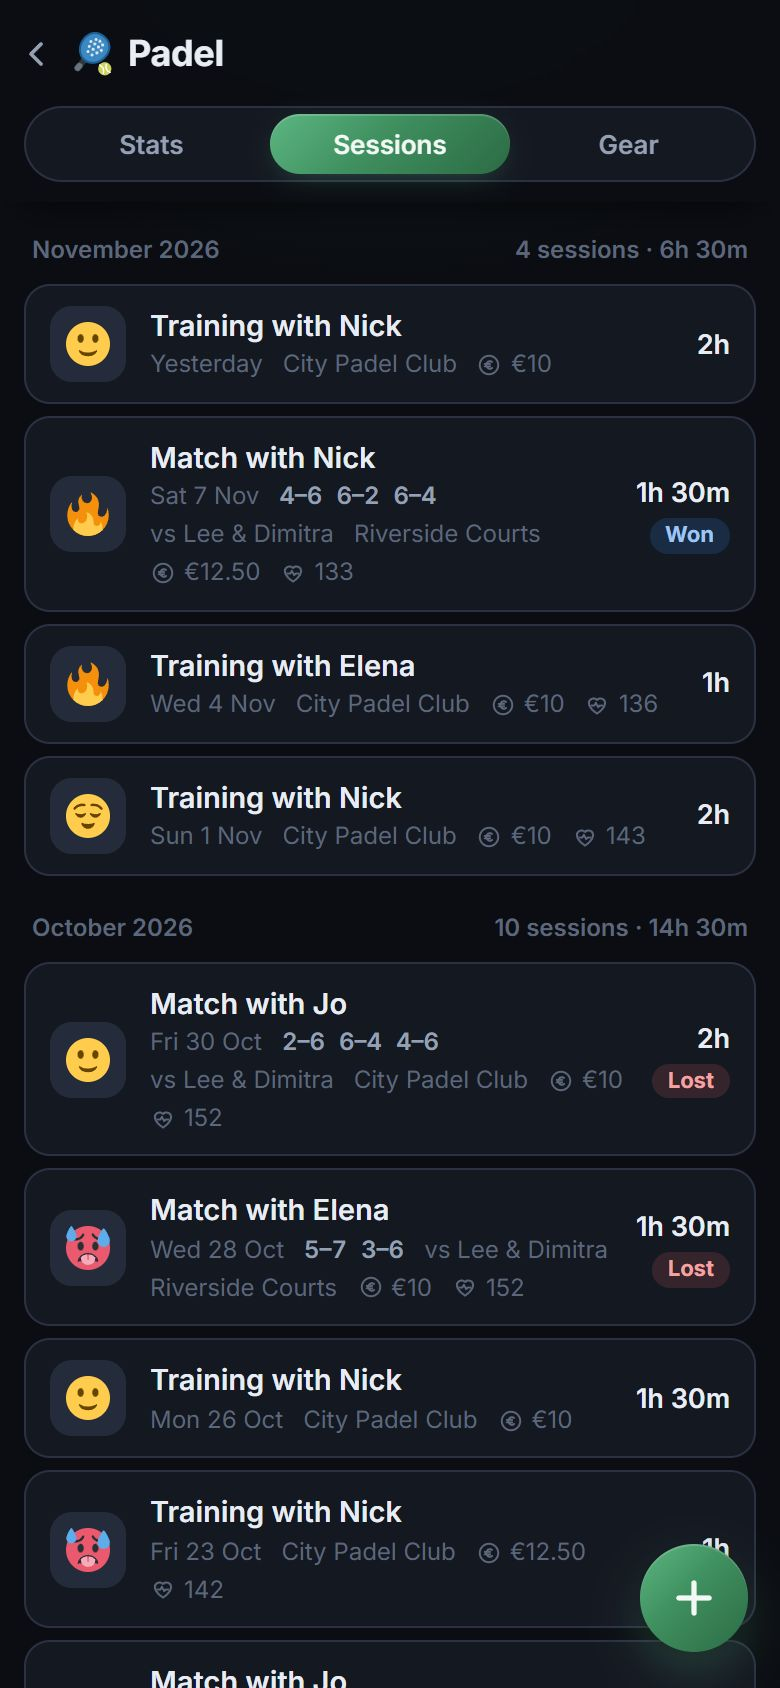
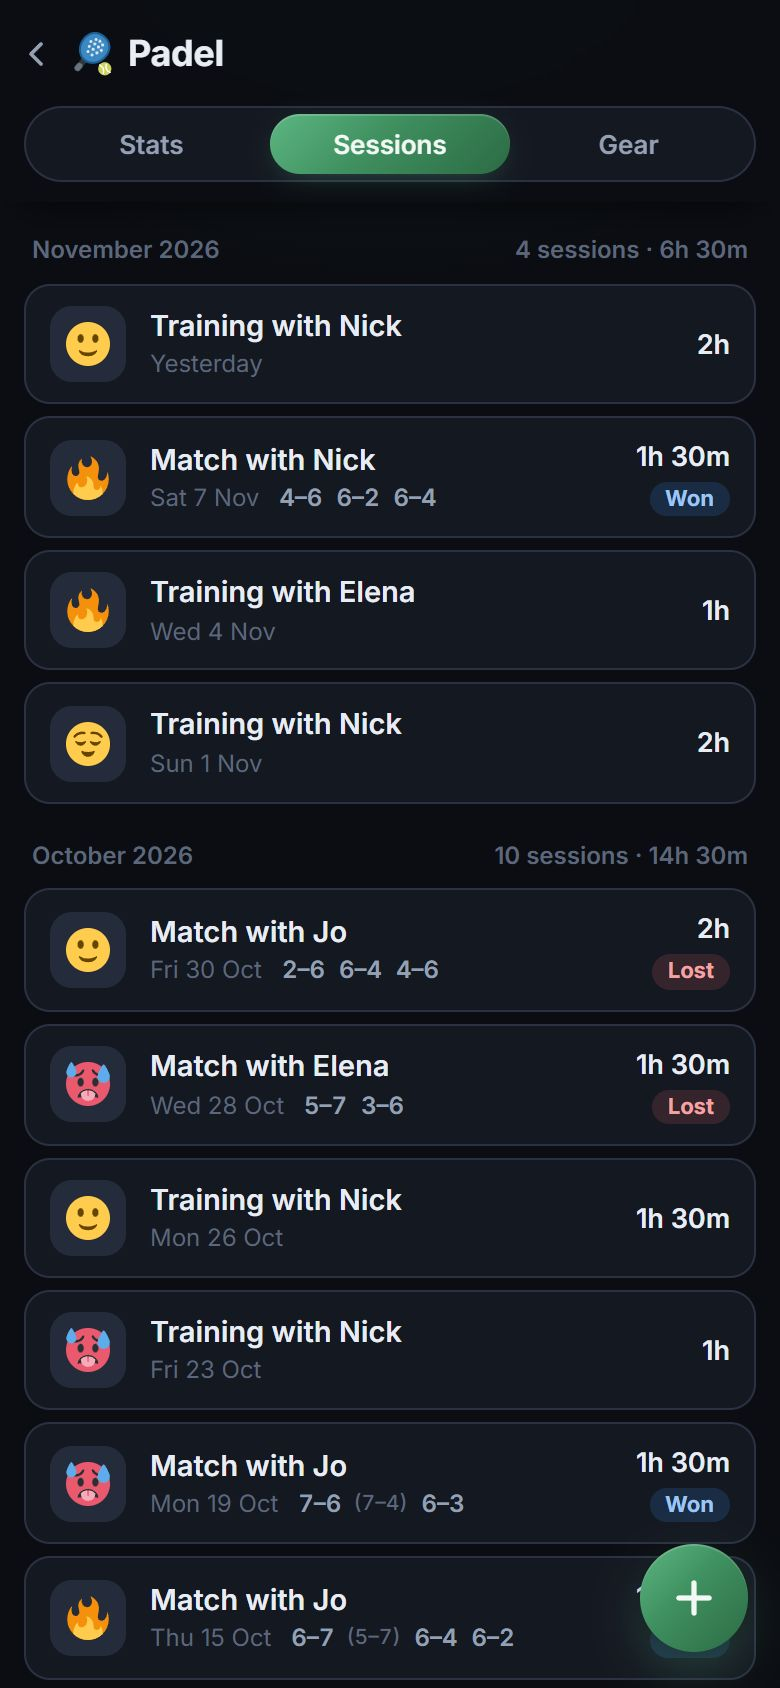
Improvements

diff --git a/workout-tracker/public/js/workouts/session-list.js b/workout-tracker/public/js/workouts/session-list.js
@@ -1,13 +1,10 @@
 // Sessions tab: sessions by month, newest first.
 import { $, escapeHtml } from '../shared/dom.js';
-import { dayLabel, duration, money, plural } from '../shared/format.js';
-import {
-  fieldShows, opponentsOf, parseScore, partnerField, resultField, scoreField, tracks,
-} from '../shared/sports.js';
+import { dayLabel, duration, plural } from '../shared/format.js';
+import { fieldShows, parseScore, partnerField, resultField, scoreField, tracks } from '../shared/sports.js';
 import { byNewest } from '../shared/stats.js';
 import { feelOf } from '../shared/workouts.js';
 import { emoji, sportIcon } from '../ui/emoji.js';
-import { icon } from '../ui/icons.js';
 import { groupByMonth } from './rows.js';
 
 /** @typedef {import('../shared/workouts.js').Session} Session */
@@ -39,18 +36,15 @@ function rowIcon(sport, s) {
   return `<span class="row-emoji">${option?.emoji ? emoji(option.emoji, option.label) : sportIcon(sport)}</span>`;
 }
 
-function sessionRow(sport, s, today, currency) {
+/** Kept short: the day and the score; the rest is a tap away. */
+function sessionRow(sport, s, today) {
   const result = resultField(sport);
   const score = scoreField(sport);
-  const opponents = opponentsOf(sport, s.details);
   const meta = [`<span>${escapeHtml(dayLabel(s.date, today))}</span>`];
   const sets = score ? parseScore(s.details[score.key], score.maxSets) : null;
   if (sets) meta.push(`<span class="score">${sets.map(([a, b, ta, tb]) => `<span>${a}–${b}${ta != null ? `<small>(${ta}–${tb})</small>` : ''}</span>`).join('')}</span>`);
-  if (opponents.length) meta.push(`<span>vs ${escapeHtml(opponents.join(' & '))}</span>`);
-  if (s.details.venue) meta.push(`<span>${escapeHtml(String(s.details.venue))}</span>`);
-  if (s.cost != null) meta.push(`<span>${icon('coin')}${escapeHtml(money(s.cost, currency))}</span>`);
-  if (s.avgHr != null) meta.push(`<span>${icon('heart')}${s.avgHr}</span>`);
-  if (s.note) meta.push(`<span>${icon('note')}</span>`);
+  // with no one to name in the title (snowboard), the place says which day it was
+  if (!partnerField(sport) && s.details.venue) meta.push(`<span>${escapeHtml(String(s.details.venue))}</span>`);
   const outcome = result ? s.details[result.key] : null;
   const label = outcome ? optionOf(sport, s, result.key)?.label : null;
   return `<li><button type="button" class="row" data-session="${s.id}">
@@ -60,13 +54,13 @@ function sessionRow(sport, s, today, currency) {
   </button></li>`;
 }
 
-/** @param {{ sport: Sport, sessions: Session[], today: string, currency: string }} view */
-export function renderSessions({ sport, sessions, today, currency }) {
+/** @param {{ sport: Sport, sessions: Session[], today: string }} view */
+export function renderSessions({ sport, sessions, today }) {
   const list = [...sessions].sort(byNewest);
   $('sessionList').innerHTML = list.length
     ? groupByMonth(list, {
       summary: (month) => `<span>${plural(month.length, 'session')}${tracks(sport, 'time') ? ` · ${duration(month.reduce((t, s) => t + (s.minutes ?? 0), 0))}` : ''}</span>`,
-      html: (s) => sessionRow(sport, s, today, currency),
+      html: (s) => sessionRow(sport, s, today),
     })
     : `<p class="empty">Log your first ${escapeHtml(sport.name.toLowerCase())} session with the + button.</p>`;
 }

diff --git a/workout-tracker/public/js/workouts/charts.js b/workout-tracker/public/js/workouts/charts.js
@@ -62,8 +62,8 @@ export function columnChart({ width, height = 160, items, series, axis, valueLab
       y -= h;
       // only the top part is rounded; lower parts end 2px short to leave a gap
       return k === parts.length - 1
-        ? `<path d="${columnPath(x, y + h, barW, h)}" fill="${part.color}" pointer-events="none"/>`
-        : `<rect x="${r1(x)}" y="${r1(y + 2)}" width="${r1(barW)}" height="${r1(Math.max(h - 2, 1))}" fill="${part.color}" pointer-events="none"/>`;
+        ? `<path d="${columnPath(x, y + h, barW, h)}" style="fill:${part.color}" pointer-events="none"/>`
+        : `<rect x="${r1(x)}" y="${r1(y + 2)}" width="${r1(barW)}" height="${r1(Math.max(h - 2, 1))}" style="fill:${part.color}" pointer-events="none"/>`;
     }).join('');
     const hit = `<rect class="hit" x="${r1(x0)}" y="${PAD.top}" width="${r1(band)}" height="${plotH}" data-tip="${escapeHtml(item.tip)}"/>`;
     const label = (items.length - 1 - i) % step === 0
@@ -108,10 +108,10 @@ export function lineChart({ width, height = 180, points, series }) {
     if (!pts.length) return '';
     const d = pts.map(([px, py], i) => `${i ? 'L' : 'M'}${r1(px)},${r1(py)}`).join('');
     const dots = (showDots ? pts : [pts.at(-1)]).map(([px, py]) =>
-      `<circle cx="${r1(px)}" cy="${r1(py)}" r="4" fill="${s.color}" stroke="var(--surface)" stroke-width="2" pointer-events="none"/>`).join('');
+      `<circle cx="${r1(px)}" cy="${r1(py)}" r="4" style="fill:${s.color};stroke:var(--surface)" stroke-width="2" pointer-events="none"/>`).join('');
     const [ex, ey, ev] = pts.at(-1);
     ends.push({ x: ex, y: ey, value: ev });
-    return `<path d="${d}" fill="none" stroke="${s.color}" stroke-width="2" stroke-linejoin="round" stroke-linecap="round" pointer-events="none"/>${dots}`;
+    return `<path d="${d}" style="fill:none;stroke:${s.color}" stroke-width="2" stroke-linejoin="round" stroke-linecap="round" pointer-events="none"/>${dots}`;
   }).join('');
 
   // skip end labels if they'd overlap; tooltips still show the values

diff --git a/workout-tracker/public/css/app.css b/workout-tracker/public/css/app.css
@@ -490,7 +490,7 @@ input[type="date"].text-input { min-width: 0; -webkit-appearance: none; appearan
   box-shadow: 0 18px 40px -12px rgb(0 0 0 / 0.85);
   animation: menu-in 140ms var(--ease);
 }
-.menu.grid { display: grid; grid-template-columns: repeat(var(--columns), 40px); }
+.menu.grid { display: grid; grid-template-columns: repeat(var(--columns), 46px); gap: 4px; padding: 6px; }
 @keyframes menu-in { from { opacity: 0; transform: translateY(-4px); } }
 .menu-option {
   display: flex;
@@ -506,7 +506,8 @@ input[type="date"].text-input { min-width: 0; -webkit-appearance: none; appearan
 .menu-option:hover, .menu-option:focus-visible { outline: none; background: rgb(255 255 255 / 0.06); }
 .menu-option.selected { background: rgb(63 143 95 / 0.16); color: var(--accent); font-weight: 600; }
 .menu-option.action { margin-top: 3px; border-top: 1px solid var(--line); border-radius: 0 0 9px 9px; color: var(--accent); font-weight: 600; }
-.menu.grid .menu-option { justify-content: center; min-height: 40px; padding: 0; font-weight: 600; font-variant-numeric: tabular-nums; }
+.menu.grid .menu-option { justify-content: center; min-height: 46px; padding: 0; font-size: 17px; font-weight: 600; font-variant-numeric: tabular-nums; }
+.menu.grid .menu-option.action { grid-column: 1 / -1; min-height: 38px; margin-top: 2px; border-radius: 9px; font-size: 14px; }
 .pick-pair { display: grid; grid-template-columns: repeat(2, minmax(0, 1fr)); gap: 8px; }
 .inline-add { display: flex; gap: 6px; grid-column: 1 / -1; }
 .inline-add .text-input { flex: 1; min-width: 0; }

diff --git a/workout-tracker/public/js/workouts/dashboard.js b/workout-tracker/public/js/workouts/dashboard.js
@@ -18,8 +18,9 @@ export const TABS = Object.freeze(['stats', 'sessions', 'gear']);
 /** The tab to show: Stats instead of Gear for a sport without gear (a workout). */
 export const tabFor = (sport, tab) => (tab === 'gear' && !sport.gear.length ? 'stats' : tab);
 
-// chart colors come from CSS tokens
-const css = (name) => getComputedStyle(document.documentElement).getPropertyValue(name).trim();
+// chart colors are CSS tokens, resolved by the browser when drawn (reading them up front can run before the
+// stylesheet has loaded, e.g. on iPhone, and leave every chart black)
+const css = (name) => `var(${name})`;
 const COLORS = {
   time: css('--series-1'),
   sessionCost: css('--series-3'),
@@ -74,7 +75,7 @@ export function renderDashboard({ sport, tab, sessions, purchases, range, today,
   }
   $('addButton').setAttribute('aria-label', tab === 'gear' ? 'Add a purchase' : 'Log a session');
 
-  if (tab === 'sessions') return renderSessions({ sport, sessions, today, currency });
+  if (tab === 'sessions') return renderSessions({ sport, sessions, today });
   if (tab === 'gear') return renderGear({ sport, purchases, today, currency });
   renderStats({ sport, sessions, purchases, range, today, currency });
 }

diff --git a/workout-tracker/public/js/workouts/sports-view.js b/workout-tracker/public/js/workouts/sports-view.js
@@ -1,6 +1,6 @@
 // A person's sport list, plus the link to their players and clubs.
 import { $, closest, escapeHtml } from '../shared/dom.js';
-import { dayLabel, duration, plural } from '../shared/format.js';
+import { duration, plural, shortDay } from '../shared/format.js';
 import { LISTS, sportsFor, tracks } from '../shared/sports.js';
 import { byNewest } from '../shared/stats.js';
 import { sportIcon } from '../ui/emoji.js';
@@ -17,7 +17,7 @@ export function renderSports({ person, sessions, today }) {
     const theirs = sessions.filter((s) => s.sport === sport.id).sort(byNewest);
     const minutes = theirs.reduce((sum, s) => sum + (s.minutes ?? 0), 0);
     const summary = theirs.length
-      ? [plural(theirs.length, 'session'), tracks(sport, 'time') && duration(minutes), `last ${dayLabel(theirs[0].date, today).toLowerCase()}`]
+      ? [plural(theirs.length, 'session'), tracks(sport, 'time') && duration(minutes), shortDay(theirs[0].date, today)]
         .filter(Boolean).join(' · ')
       : 'Nothing logged yet';
     return `<button type="button" class="sport-row" role="listitem" data-sport="${sport.id}">

diff --git a/workout-tracker/public/js/workouts/sport-fields.js b/workout-tracker/public/js/workouts/sport-fields.js
@@ -265,10 +265,10 @@ export function createSportFields({ root, getNames, addName }) {
     const choices = side > 1 ? tiebreakChoices(set, side) : GAMES;
     openMenu(button, {
       label: button.getAttribute('aria-label'),
-      columns: side > 1 ? 5 : 3,
+      columns: side > 1 ? 5 : 4, // games: 0–3 above 4–7
       options: [
-        { value: '', label: '–', selected: value == null },
         ...choices.map((n) => ({ value: String(n), label: String(n), selected: n === value })),
+        ...(value == null ? [] : [{ value: '', label: 'Clear', action: true }]),
       ],
       onPick: (picked) => {
         set[side] = picked === '' ? null : Number(picked);

diff --git a/workout-tracker/public/js/shared/format.js b/workout-tracker/public/js/shared/format.js
@@ -61,7 +61,13 @@ export function dayLabel(day, today) {
   });
 }
 
-export const monthLabel = (day) => dayDate(day).toLocaleDateString(undefined, { month: 'long', year: 'numeric' });
+/** 7 Nov; with the year when it isn't this year's. */
+export function shortDay(day, today) {
+  const sameYear = day.slice(0, 4) === today.slice(0, 4);
+  return dayDate(day).toLocaleDateString(undefined, { day: 'numeric', month: 'short', ...(sameYear ? {} : { year: 'numeric' }) });
+}
+
+export const monthLabel =(day) => dayDate(day).toLocaleDateString(undefined, { month: 'long', year: 'numeric' });
 
 /** 950, 1.2K, 12K. */
 export function compact(value) {

diff --git a/workout-tracker/public/js/ui/sheet.js b/workout-tracker/public/js/ui/sheet.js
@@ -139,6 +139,7 @@ export function createSheet(layer, { onClose, hasChanges } = {}) {
       pushBack(hide);
       panel.style.transform = '';
       layer.hidden = false;
+      for (const body of panel.querySelectorAll('.sheet-body')) body.scrollTop = 0; // not where it was last time
       void panel.offsetHeight; // force reflow so it slides in
       layer.classList.add('open');
     },

diff --git a/workout-tracker/CHANGELOG.md b/workout-tracker/CHANGELOG.md
@@ -1,5 +1,11 @@
 # Changelog
 
+## 1.2.1
+- Sports list shows the date of your last session
+- Easier number pad for scores
+- Simpler sessions list
+- Fixed charts showing black on iPhone
+
 ## 1.2.0
 - Moved to port 3500 (3501 for https)
 
